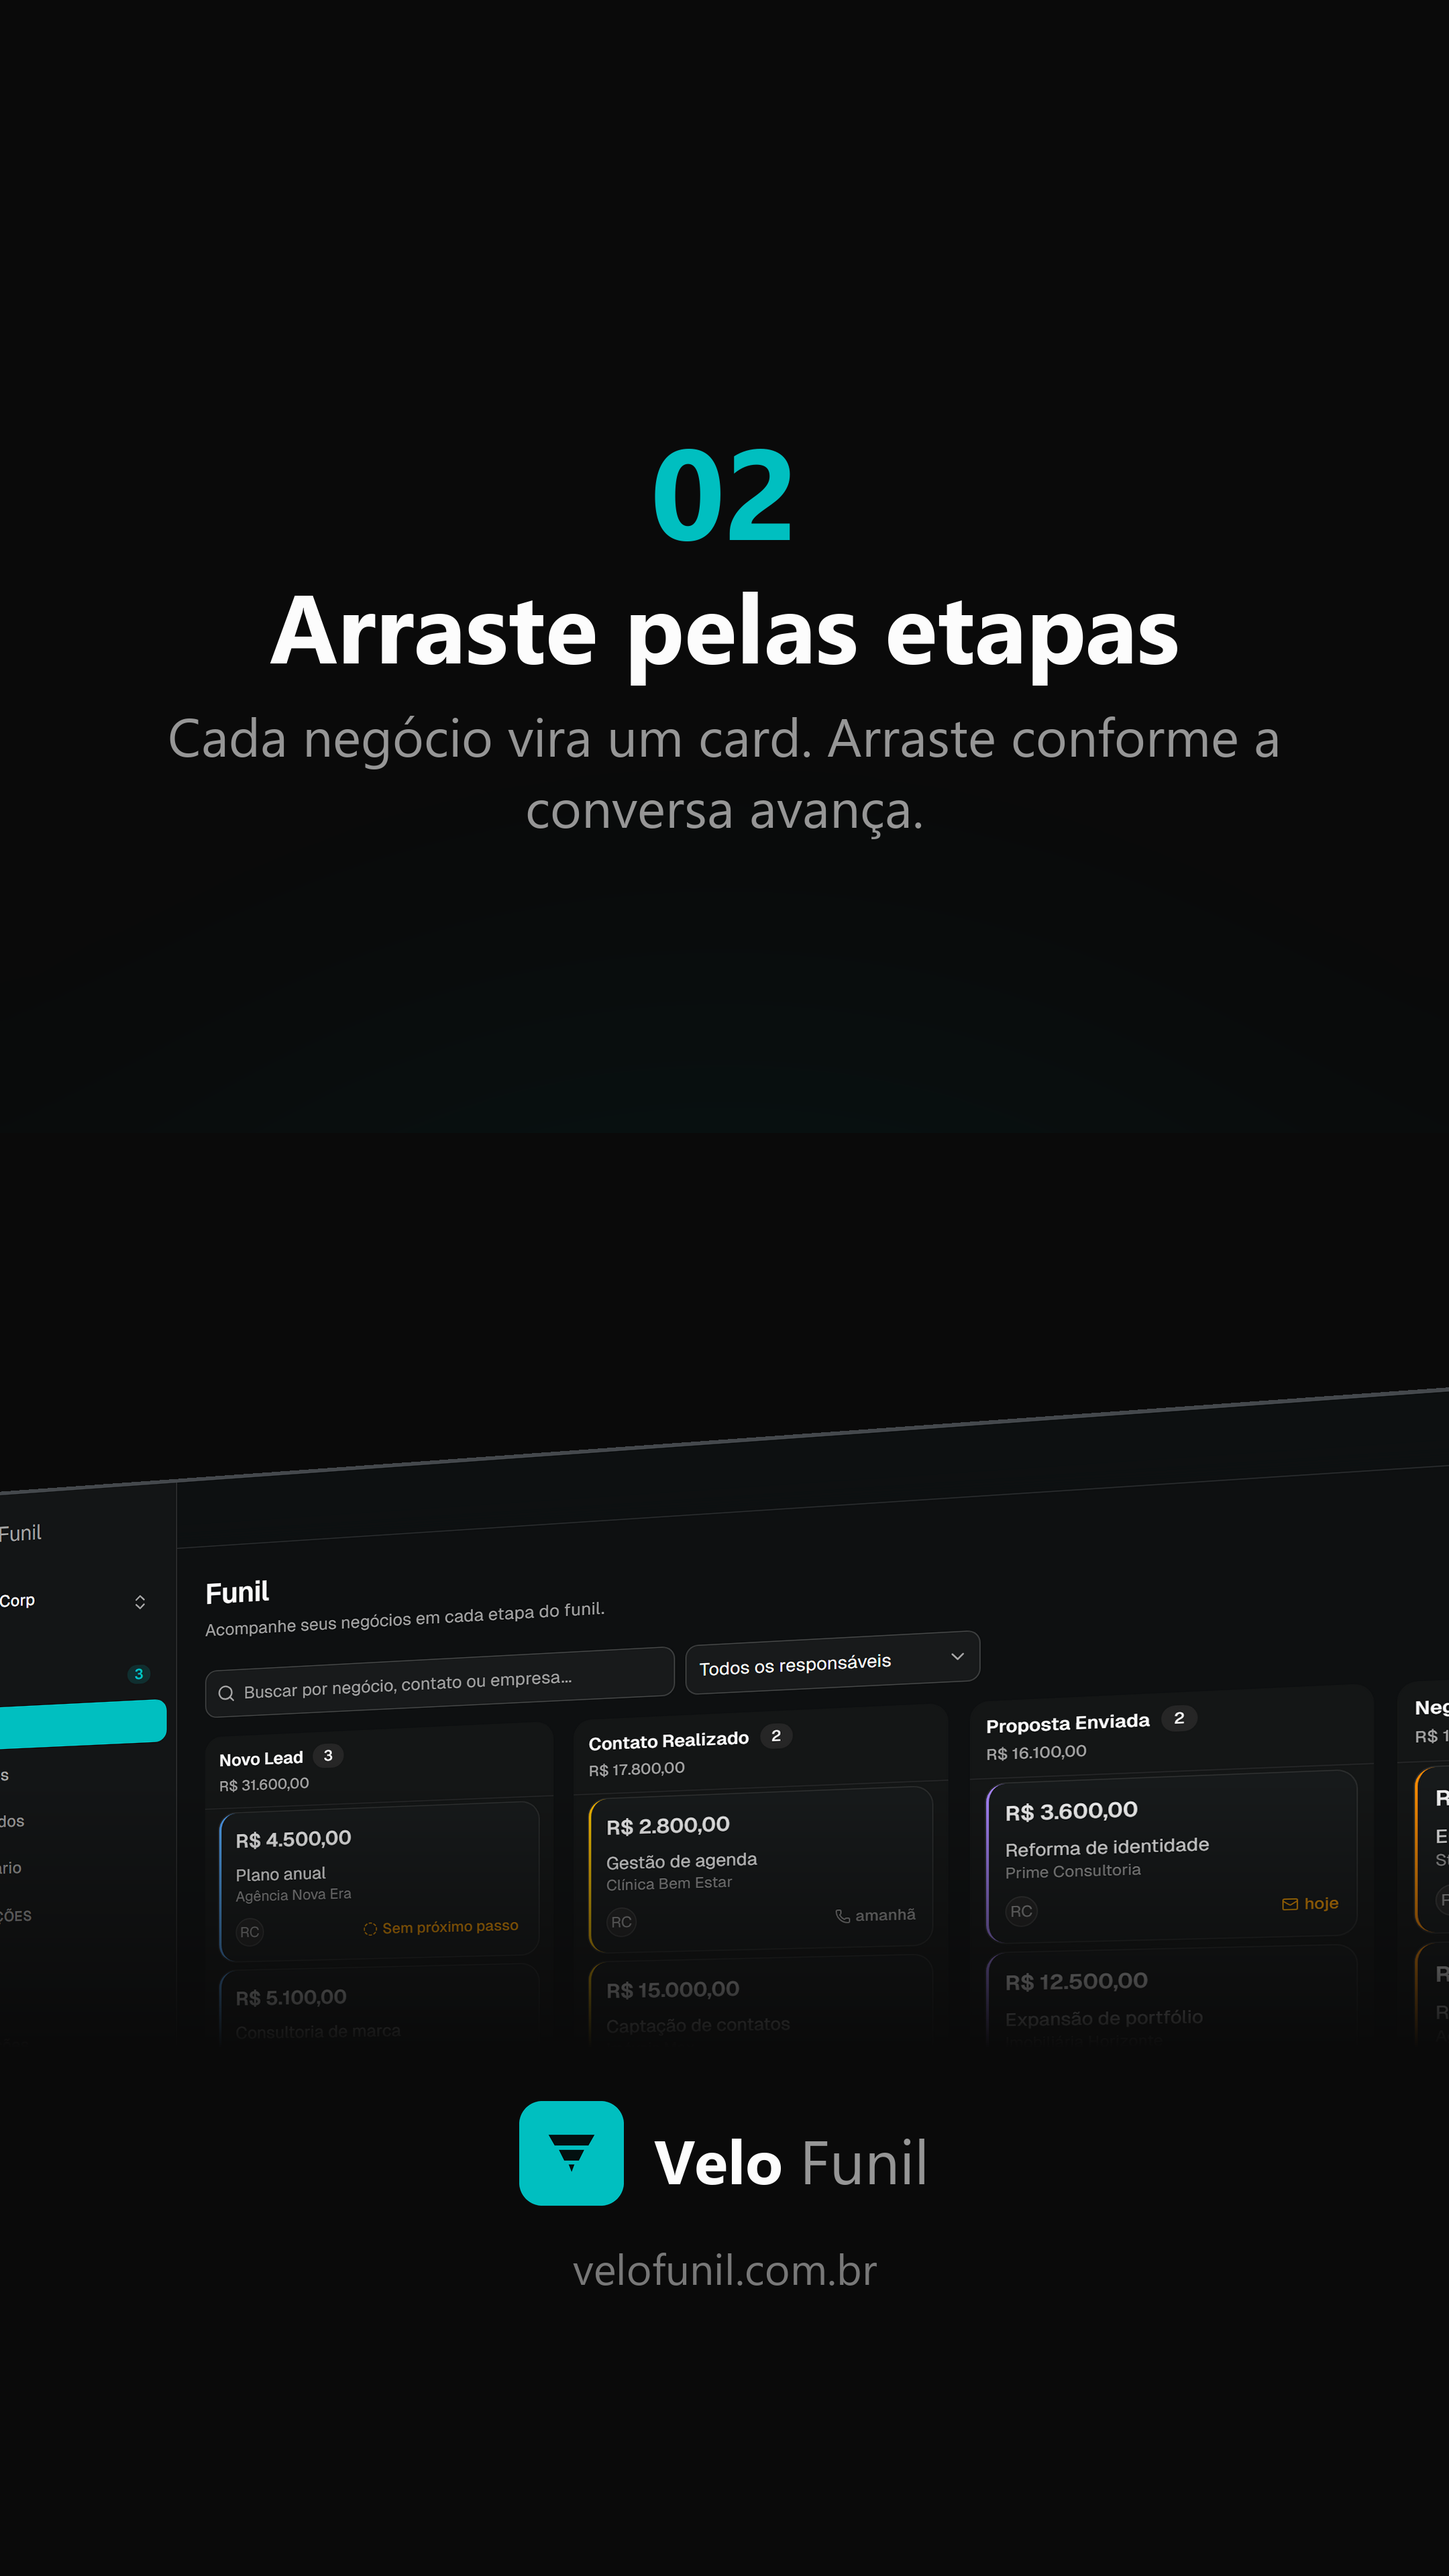
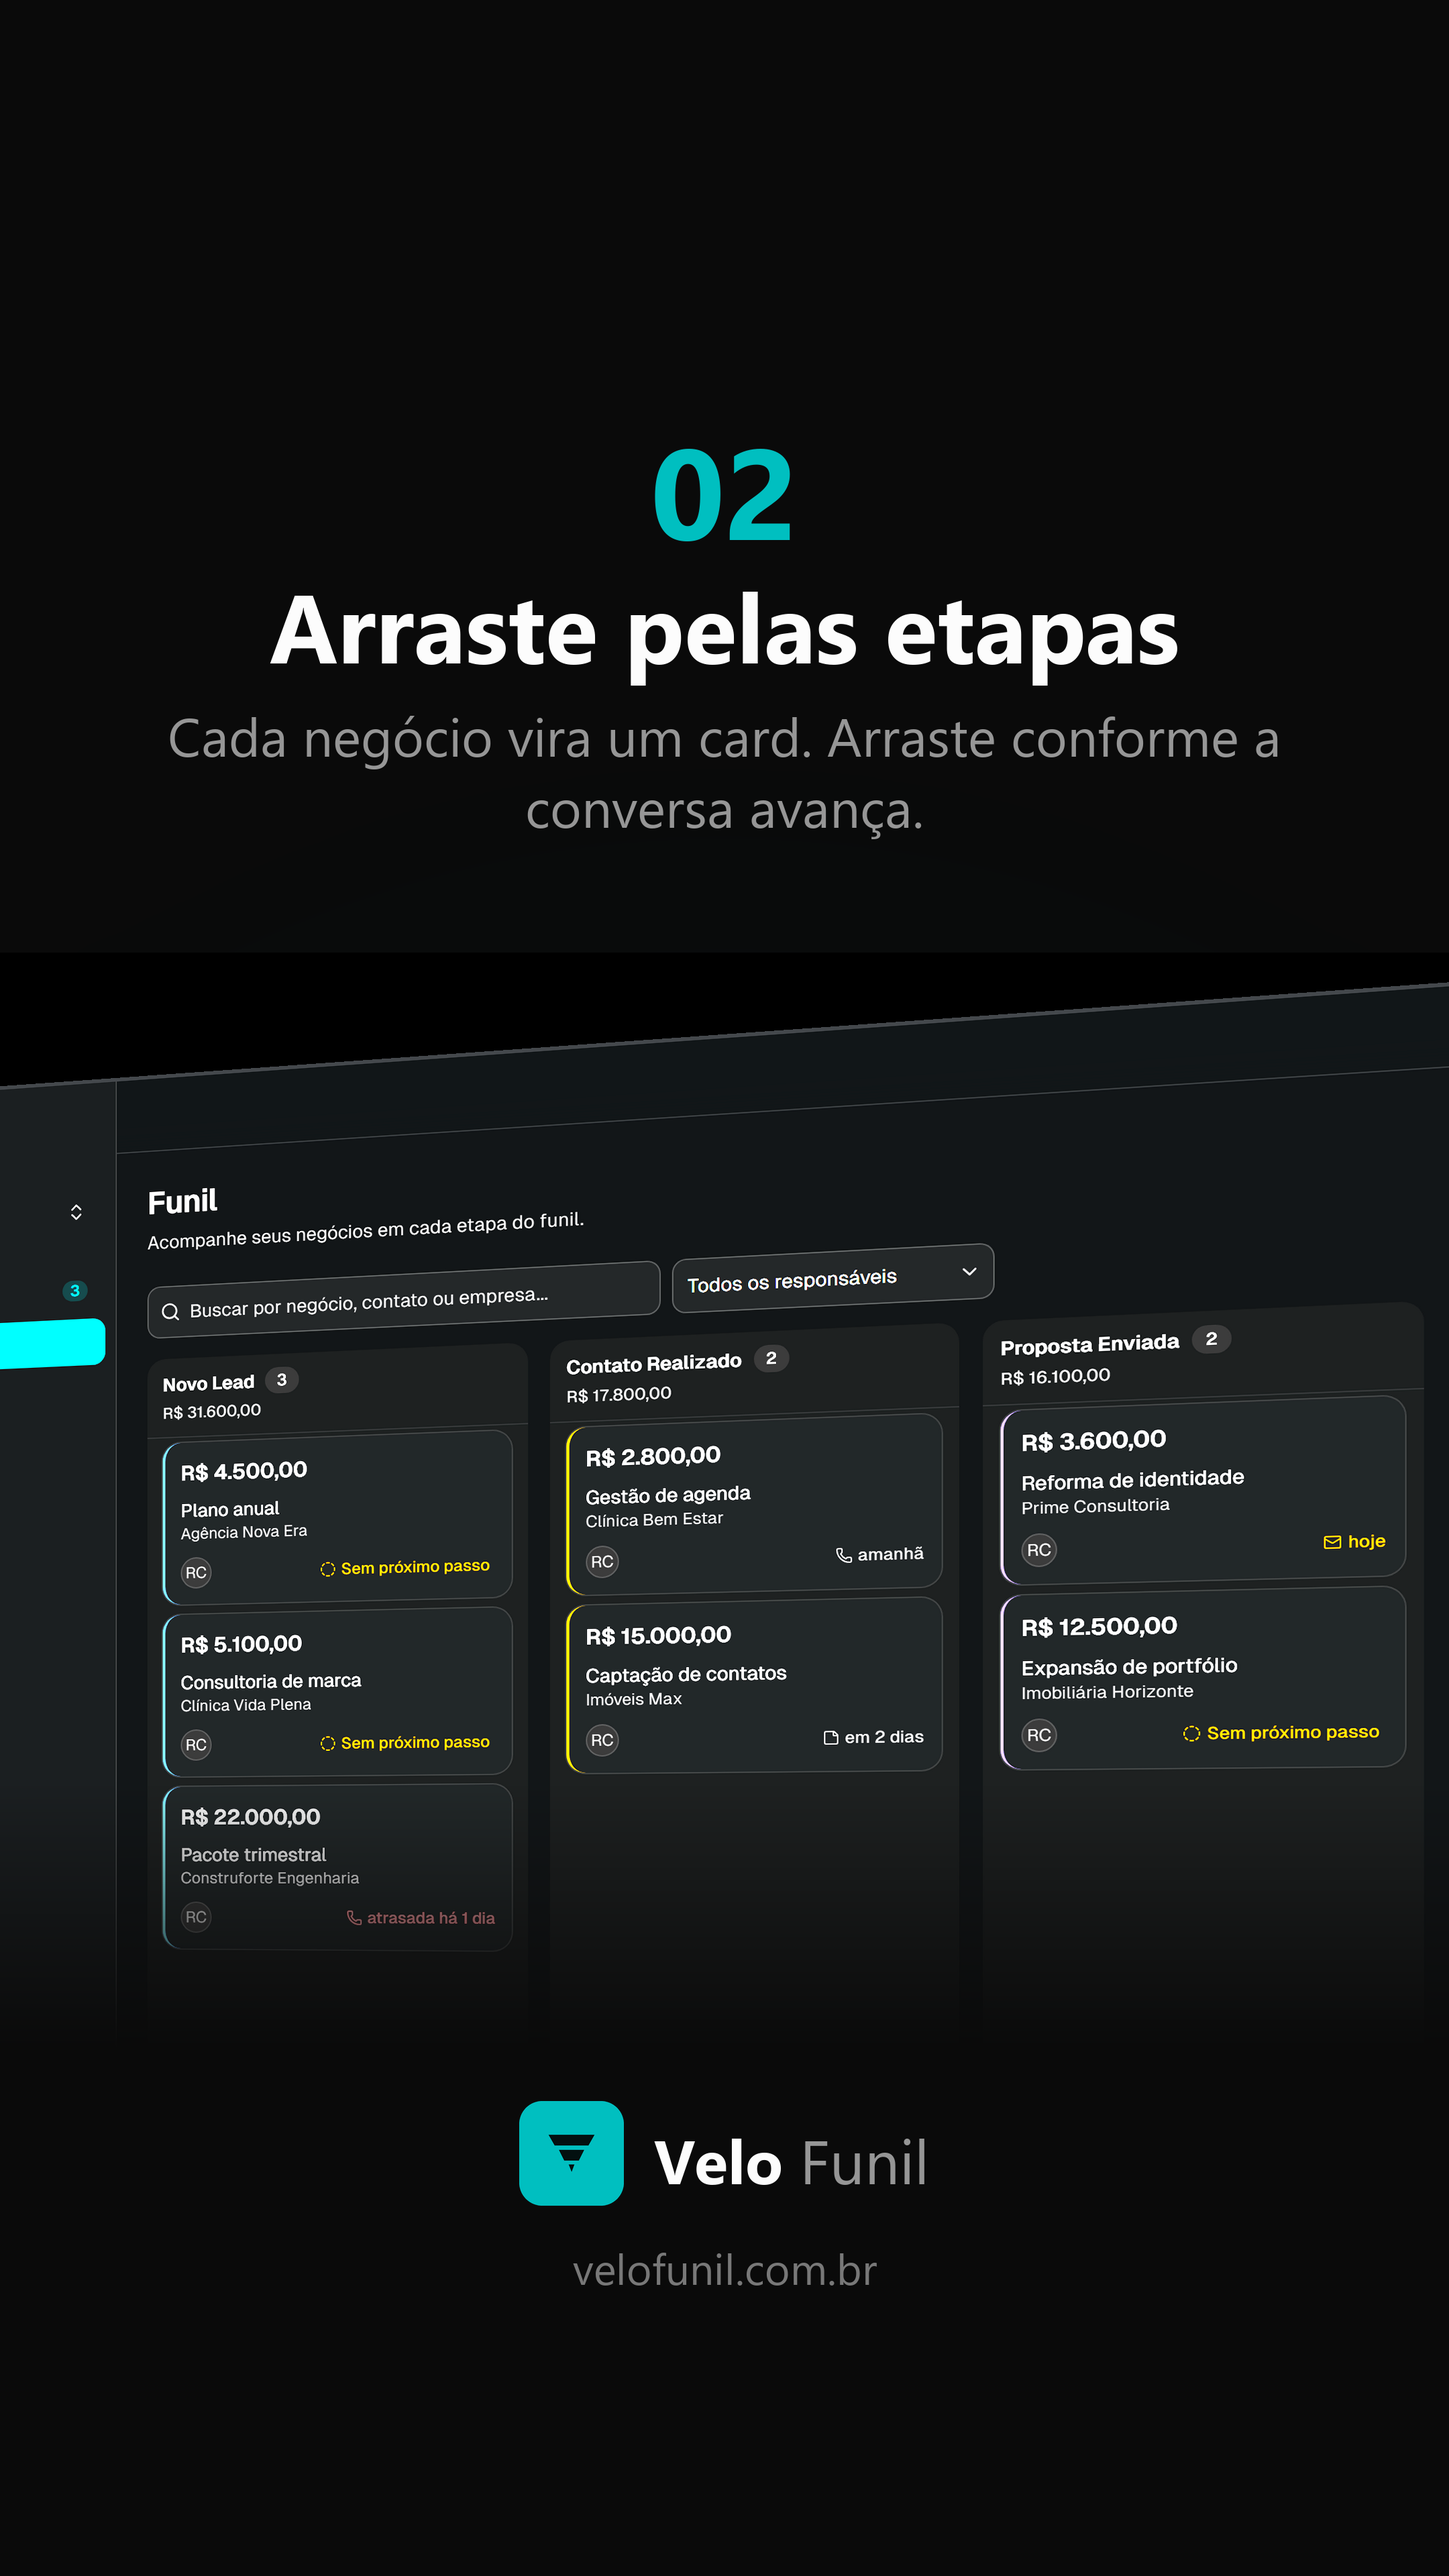
fix(marketing): vazio morto entre o texto e o print nos Stories
Reportado com print de duas telas: uma faixa preta separava o texto do
produto, e o print entrava apagado demais.

## A causa, que as duas primeiras tentativas erraram

Não era posicionamento. A transformação de perspectiva precisa de uma folga
interna (22% da altura) para não cortar os cantos ao girar — e essa margem
morta viajava COLADA ao print na hora de compor, abrindo o vazio. Mexer em
`topo_rel` não resolvia porque o buraco vinha junto com a imagem.

Medido antes: 34% a 53% da altura em brilho de fundo puro (10), quase um
quinto da tela sem nada. Recortando a folga com `getbbox()` depois da
transformação, o print encosta no texto de verdade. O `fillcolor` da
transformação passou a ser preto puro, senão o recorte não acha a borda
(o fundo do projeto é 10,10,10, não 0,0,0).

## O print entrava apagado

Medido: brilho médio 23-34 sobre um fundo de 10 — pouca separação, e no
celular isso lê como foto apagada em vez de interface escura elegante. Ganho
de brilho (1.55) e contraste (1.12) leva para 35, e a sombra projetada subiu
para 0.62 para a tela continuar descolando do fundo agora que ela brilha.

Uma primeira tentativa com 1.28 de brilho mal moveu a agulha (23-34 para 25),
por isso o valor mais alto.

Os vazios que sobram no topo (0-12%) e na base (90-96%) são a zona segura do
Meta — ali o vazio é correto, é onde a interface do app cobre o conteúdo.

diff --git a/scripts/marketing/gerar-stories.py b/scripts/marketing/gerar-stories.py
@@ -42,7 +42,7 @@ da página no primeiro ajuste que alguém fizesse lá.
 from pathlib import Path
 
 import numpy as np
-from PIL import Image, ImageDraw, ImageFont, ImageFilter
+from PIL import Image, ImageDraw, ImageEnhance, ImageFilter, ImageFont
 
 # ---------------------------------------------------------------- constantes
 
@@ -178,7 +178,8 @@ def _coeficientes_perspectiva(origem, destino):
     return np.array(np.dot(np.linalg.inv(A.T * A) * A.T, B)).reshape(8)
 
 
-def colar_print(img, nome_print, topo_rel=0.40, larg_rel=1.30, esq_rel=-0.08):
+def colar_print(img, nome_print, topo_rel=0.34, larg_rel=1.42, esq_rel=-0.14,
+                clarear=1.55):
     """
     Cola o print do produto em perspectiva, como uma tela inclinada no espaço.
 
@@ -190,6 +191,14 @@ def colar_print(img, nome_print, topo_rel=0.40, larg_rel=1.30, esq_rel=-0.08):
     larg = int(W * larg_rel)
     alt = int(larg * origem.height / origem.width)
     origem = origem.resize((larg, alt), Image.LANCZOS)
+
+    # O print do produto é escuro por natureza (tema escuro), e sobre um fundo
+    # #0A0A0A ele quase desaparece: medido, entrava com brilho médio 23-34
+    # contra fundo 10. No celular isso lê como foto apagada, não como
+    # interface elegante. Um leve ganho de brilho e contraste separa a tela do
+    # fundo sem clarear a ponto de descaracterizar o tema do produto.
+    origem = ImageEnhance.Brightness(origem).enhance(clarear)
+    origem = ImageEnhance.Contrast(origem).enhance(1.12)
 
     borda = 3 * ESCALA
     com_moldura = Image.new("RGB", (larg + borda * 2, alt + borda * 2), (68, 72, 76))
@@ -209,8 +218,16 @@ def colar_print(img, nome_print, topo_rel=0.40, larg_rel=1.30, esq_rel=-0.08):
     ]
     coef = _coeficientes_perspectiva([(0, 0), (bl, 0), (bl, ba), (0, ba)], destino)
     perspectiva = com_moldura.transform(
-        (bl, ba + folga * 2), Image.PERSPECTIVE, coef, Image.BICUBIC, fillcolor=FUNDO
+        (bl, ba + folga * 2), Image.PERSPECTIVE, coef, Image.BICUBIC, fillcolor=(0, 0, 0)
     )
+
+    # A `folga` existe só para a transformação não cortar os cantos — mas ela
+    # vira margem MORTA colada ao print, que viajava junto ao colar e abria um
+    # vazio entre o texto e a imagem (medido: 34% a 53% da altura em brilho de
+    # fundo puro). Recorta o que de fato tem conteúdo antes de compor.
+    caixa = perspectiva.getbbox()
+    if caixa:
+        perspectiva = perspectiva.crop(caixa)
 
     topo = int(H * topo_rel)
     esq = int(W * esq_rel)
@@ -222,7 +239,7 @@ def colar_print(img, nome_print, topo_rel=0.40, larg_rel=1.30, esq_rel=-0.08):
     sd.ellipse([W * 0.05, topo + int(alt_p * 0.55), W * 1.15, topo + int(alt_p * 0.95)],
                fill=(0, 0, 0))
     sombra = sombra.filter(ImageFilter.GaussianBlur(70 * ESCALA))
-    img = Image.blend(img, sombra, 0.5)
+    img = Image.blend(img, sombra, 0.62)
 
     img.paste(perspectiva, (esq, topo))
 
@@ -288,7 +305,7 @@ def tela_passo(numero, titulo, apoio, print_nome, arquivo):
     dois não divergirem no primeiro ajuste de copy.
     """
     img = fundo_com_brilho(centro_y=0.62)
-    img = colar_print(img, print_nome, topo_rel=0.44)
+    img = colar_print(img, print_nome, topo_rel=0.37)
     draw = ImageDraw.Draw(img)
 
     y = SEGURO_TOPO + 30 * ESCALA
